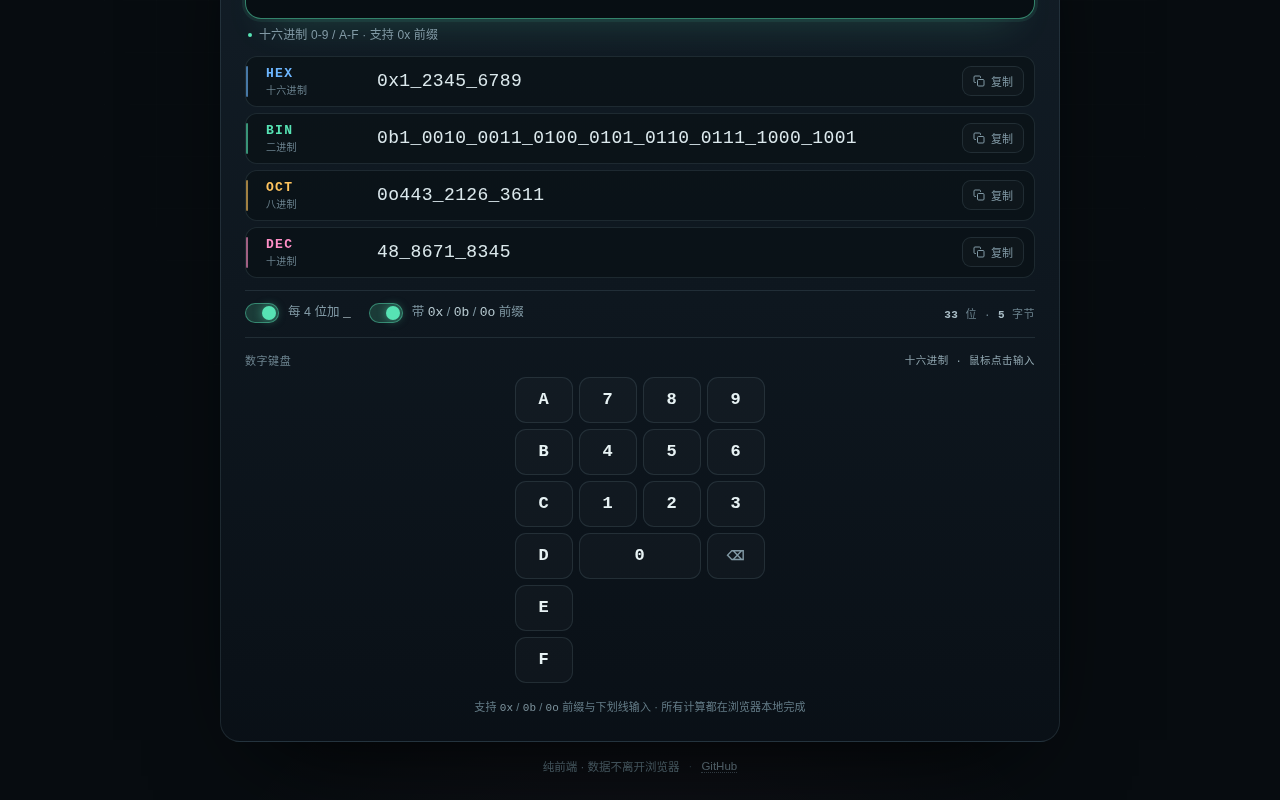
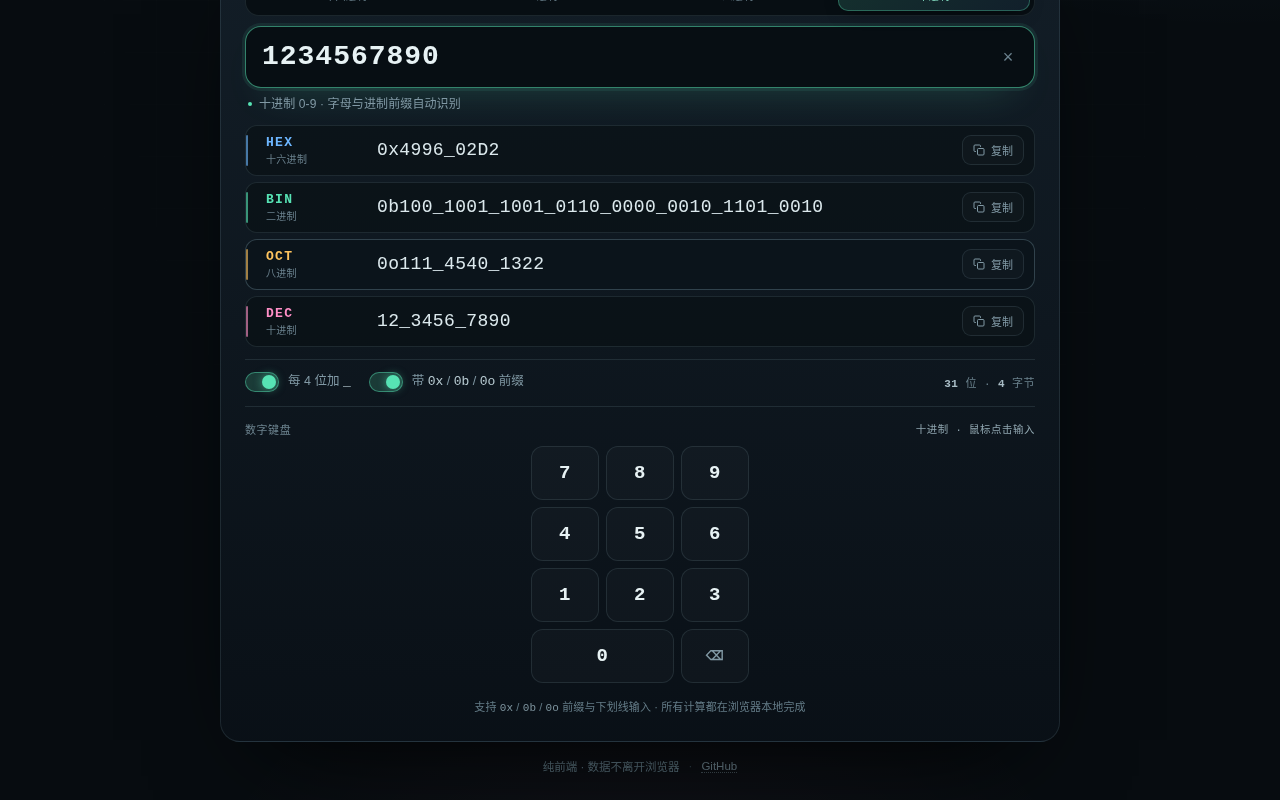
style: 数字键盘按键放大（68x54px 字号19px，移动端50px）

diff --git a/index.html b/index.html
@@ -538,8 +538,8 @@
 
   .pad {
     display: grid;
-    grid-template-columns: repeat(var(--pad-columns, 4), 58px);
-    gap: 6px;
+    grid-template-columns: repeat(var(--pad-columns, 4), 68px);
+    gap: 7px;
     width: fit-content;
     margin: 0 auto;
     touch-action: manipulation;
@@ -547,8 +547,8 @@
 
   .pad-cell {
     visibility: hidden;
-    min-height: 46px;
-    border-radius: 11px;
+    min-height: 54px;
+    border-radius: 12px;
   }
 
   .pad button {
@@ -556,14 +556,14 @@
     display: flex;
     align-items: center;
     justify-content: center;
-    min-height: 46px;
-    padding: 6px 4px;
+    min-height: 54px;
+    padding: 7px 5px;
     border: 1px solid var(--line);
-    border-radius: 11px;
+    border-radius: 12px;
     background: rgba(255, 255, 255, .025);
     color: var(--text);
     font-family: var(--mono);
-    font-size: 17px;
+    font-size: 19px;
     font-weight: 600;
     letter-spacing: .04em;
     cursor: pointer;
@@ -597,9 +597,9 @@
   .pad button.fn.danger { color: var(--pink); }
 
   @media (max-width: 640px) {
-    .pad { grid-template-columns: repeat(var(--pad-columns, 4), 44px); gap: 5px; }
-    .pad button { min-height: 44px; font-size: 15px; }
-    .pad button.fn { font-size: 11px; }
+    .pad { grid-template-columns: repeat(var(--pad-columns, 4), 50px); gap: 6px; }
+    .pad button { min-height: 50px; font-size: 17px; }
+    .pad button.fn { font-size: 12px; }
   }
 
   .page-foot {
